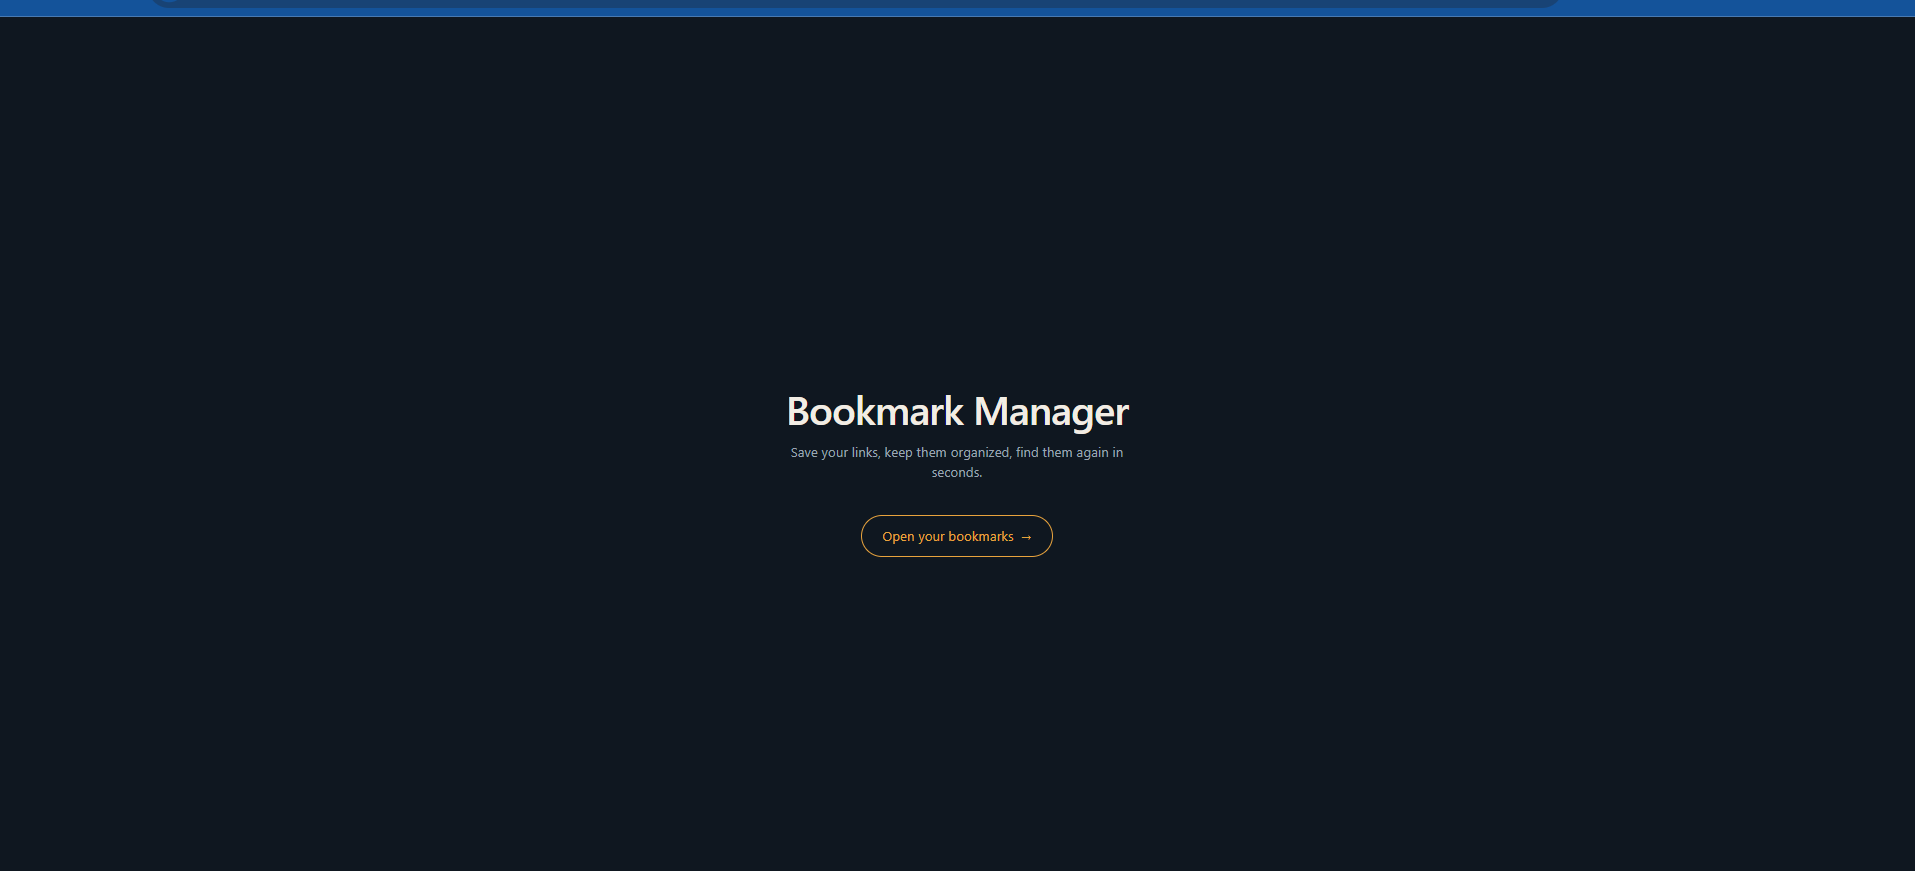
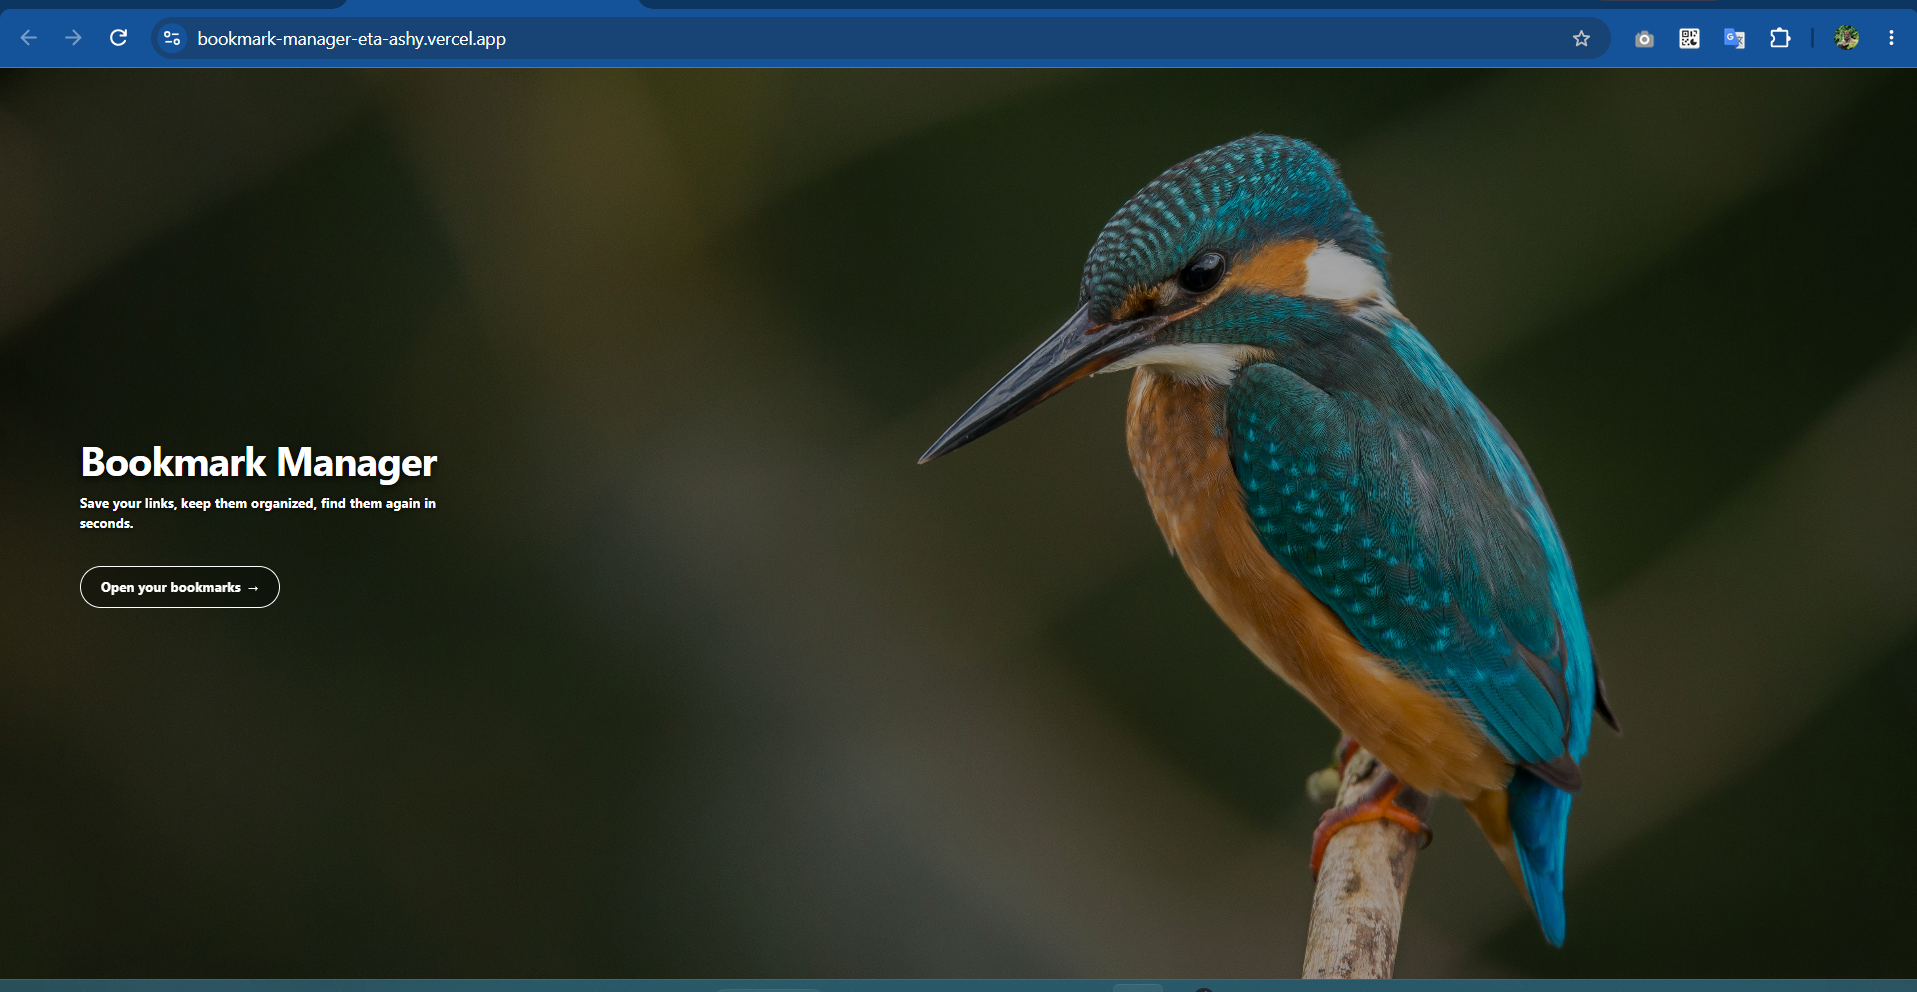
style: remove wallpaper mode disclaimer text

diff --git a/src/app/bookmarks/page.tsx b/src/app/bookmarks/page.tsx
@@ -87,9 +87,6 @@ export default function BookmarksPage() {
           <div className="mt-3 w-full max-w-xs">
             <SearchBar value={query} onChange={setQuery} />
           </div>
-          <p className="mt-3 text-xs font-bold text-[var(--text-dim)]">
-            Wallpapers show in light mode only. Dark mode overrides them.
-          </p>
         </div>
         <BookmarkGrid bookmarks={filtered} onToggleFavorite={handleToggleFavorite} onDelete={handleDelete} onEdit={handleEditClick} />
         {showModal && <AddBookmarkModal bookmark={editingBookmark} onAdd={handleAdd} onEdit={handleEditSave} onClose={closeModal} />}
